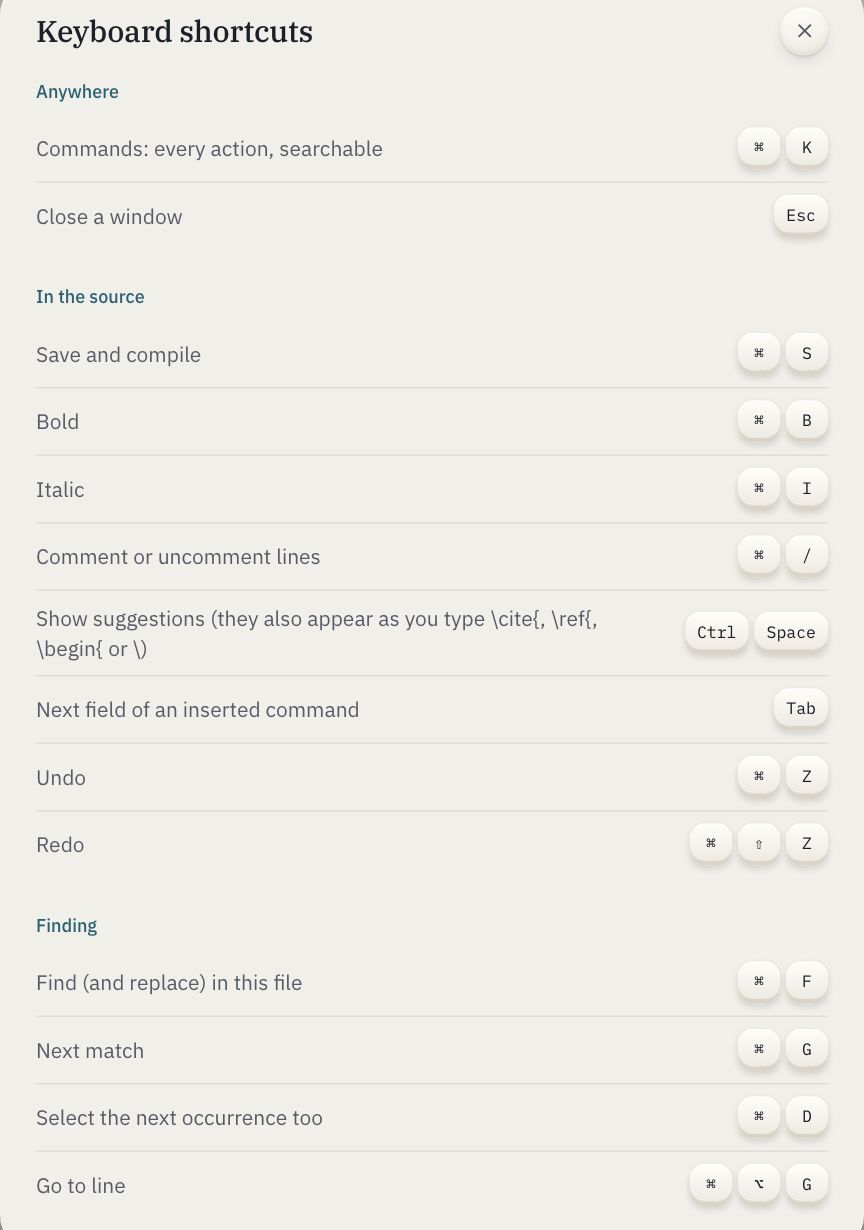
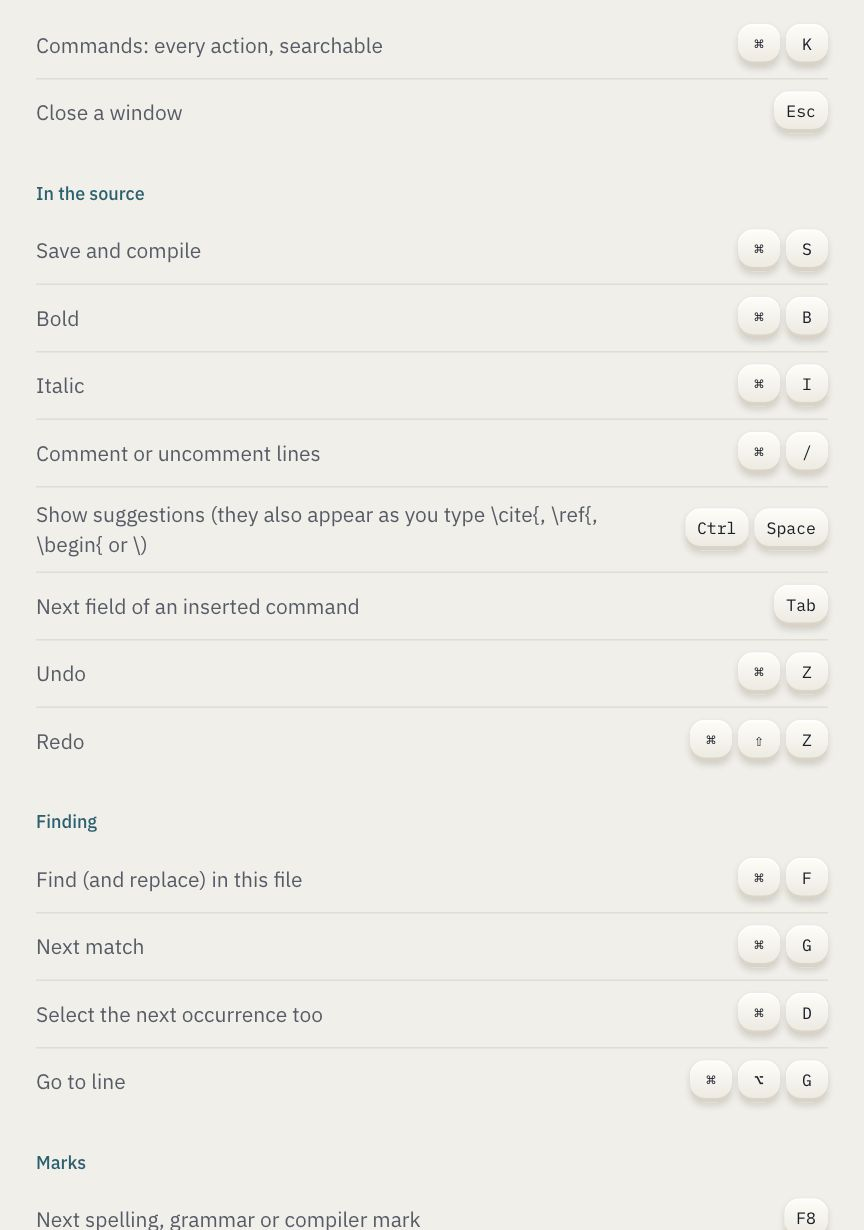
Spelling: guide notes and shortcuts, spec without the cache
Claude-Session: https://claude.ai/code/session_01FJMbDDx5ekqz6uR17AVMfJ

diff --git a/web/src/app/guide/page.tsx b/web/src/app/guide/page.tsx
@@ -784,7 +784,8 @@ export default function GuidePage() {
               </>,
               <>
                 <strong>Spelling</strong>: misspellings and grammar are underlined in your text, checked in this browser; hover one for its fixes,
-                Add to dictionary (kept with this paper) or Ignore. Choose the paper&apos;s English here, or turn it off
+                Add to dictionary or Ignore (F8 goes to the next). The words you add are listed here to take out again; choose the paper&apos;s
+                English here, or turn it off
               </>,
               <>
                 <strong>Engine</strong>: pdfLaTeX or XeLaTeX (for Unicode fonts)
@@ -851,8 +852,8 @@ export default function GuidePage() {
                 <strong>Saved</strong>: every edit is saved in this browser two seconds after you stop typing, and before any window opens.
               </>,
               <>
-                <strong>Spelling</strong>: underlined in your text, checked in this browser. Click into a marked word for its fixes; the paper&apos;s
-                English is chosen here.
+                <strong>Spelling</strong>: underlined in your text, checked in this browser. Click into a marked word for its fixes (Alt+Enter
+                reaches them from the keyboard); the paper&apos;s English is chosen here.
               </>,
             ]}
             caption="Tracked changes and comments already in the document are shown and kept; there is no suggesting mode here."

diff --git a/docs/superpowers/specs/2026-10-03-rewrite-and-spelling-design.md b/docs/superpowers/specs/2026-10-03-rewrite-and-spelling-design.md
@@ -46,8 +46,9 @@ Task 0 (the sign-in hotfix, found on the way) is done: merged as PR #3
   pinned exact, one `WorkerLinter` started after a paper opens, the WASM
   emitted as its own file from our origin (CSP already allows
   `wasm-unsafe-eval`, `worker-src 'self' blob:`). `setDialect`,
-  `importWords`; results cached per paragraph text and copied out of WASM
-  objects (then freed). Harper has no LaTeX mode, hence the mask below.
+  `importWords`; results copied out of WASM objects (then freed). No cache:
+  a whole check of 10,000 words takes about 130 ms in the worker (measured
+  in review), the mask 2 ms. Harper has no LaTeX mode, hence the mask below.
 - **LaTeX** (`latexText.ts` `proseMask(tex)`, pure): a same-length copy with
   markup blanked to spaces (commands, maths, comments, preamble, `\cite{…}`
   and friends; the text of `\emph{…}`, `\section{…}` kept; newlines kept), so
@@ -170,7 +171,7 @@ Two branches and PRs: `writing-spelling` (Part A, ships first) and
 |---|---|---|
 | A0 | Spike notes (no test) | Harper under `next build`: worker start, WASM file in `out/` and size, CSP, span units (characters or UTF-16), result objects freed, rule names to filter, time for 10,000 words, no network but the WASM. Fallback: serve the engine from R2 like TeX |
 | A1 | `latexText.selfcheck` (same length, offsets line up, markup blanked, `\emph` text kept) | `proseMask` |
-| A2 | `grammar.selfcheck` (span conversion, marks on blanked markup dropped, cache); `projectStore.selfcheck` (spelling in backups, validated) | Engine wrapper, settings |
+| A2 | `grammar.selfcheck` (span conversion, marks on blanked markup dropped); `projectStore.selfcheck` (spelling in backups, validated) | Engine wrapper, settings |
 | A3 | `check_writing.mjs` LaTeX part (misspelling marked, `\cite{misspeled}` not; fix; dictionary survives reload; UK accepts "colour"; Off clears; only a WASM GET) | Spelling in LaTeX |
 | A4 | `docText.selfcheck` (fields/footnotes blanked, positions map back); smoke Word part | Spelling in Word |
 | A5 | `npm run check`, smokes, build and limits, privacy spelling line | PR 1 |
